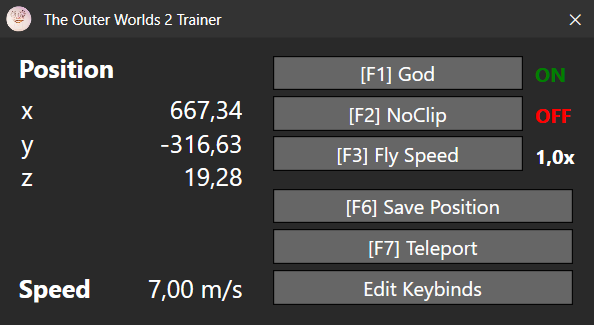
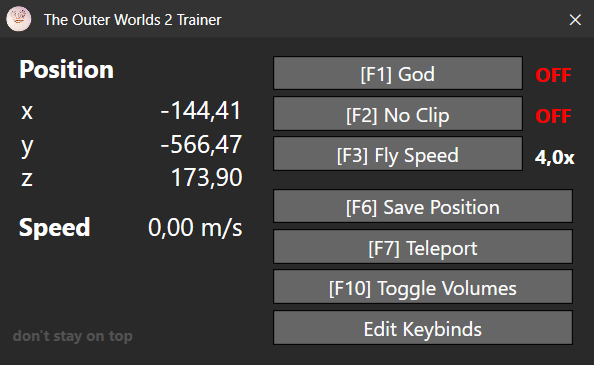
update readme

diff --git a/README.md b/README.md
@@ -9,9 +9,10 @@ Game trainer for [The Outer Worlds 2](https://https://www.pcgamingwiki.com/wiki/
 - Store and Teleport position
 - Noclip (adjustable fly speed)
 - God Mode
+- Toggle Blocking- & KillVolume visuals
 
 ## Download
-Click [here](https://github.com/Micrologist/TOW2Trainer/releases/latest/download/TOW2Trainer.exe) to download the latest version.
+Click [here](https://github.com/Micrologist/TOW2Trainer/releases/latest/download/TOW2Trainer.1.2.zip) to download the latest version.
 
 ## Requirements
 
